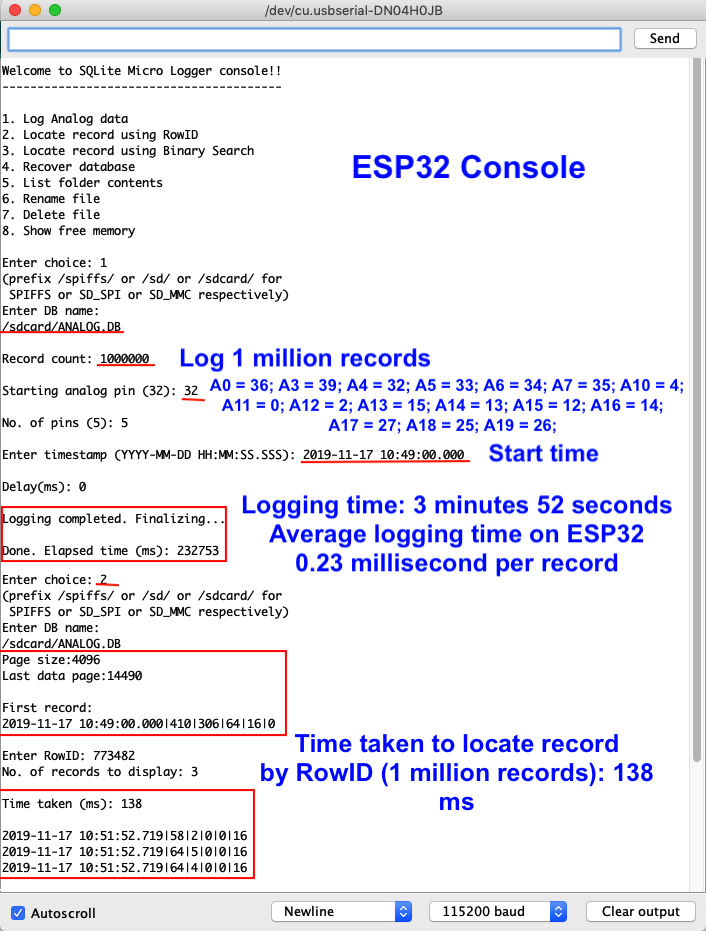
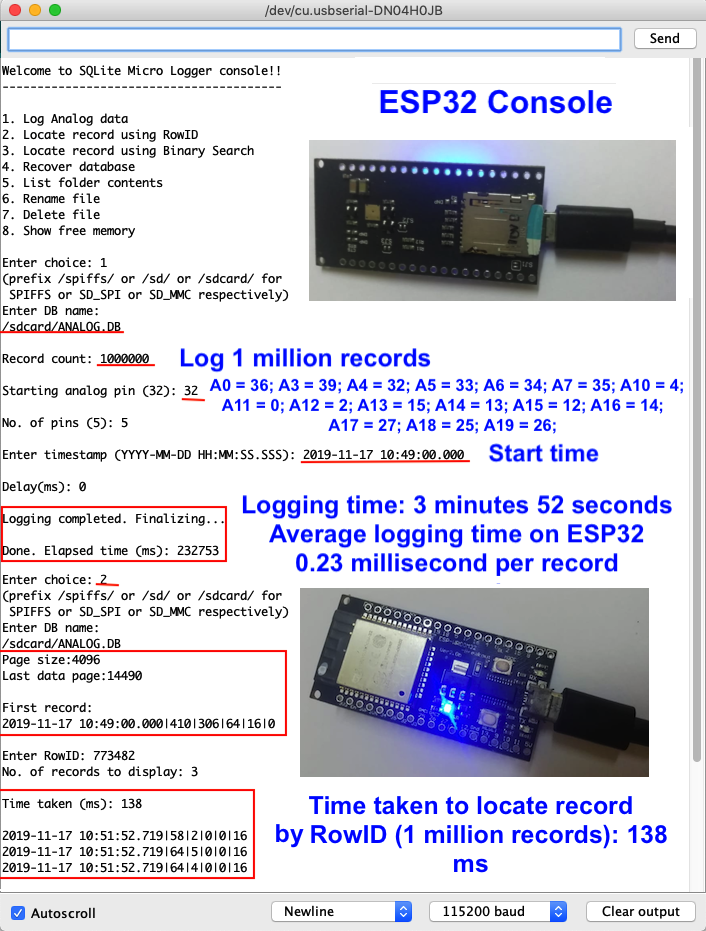
Add screenshots

Changed region(s): [[0.3739, 0.623, 0.966, 0.9345], [0.4363, 0.0934, 0.966, 0.3426]]

diff --git a/README.md b/README.md
@@ -37,6 +37,38 @@ For finding out how the logger works and a complete description of API visit [Sq
 
 If there is power failure during logging, the data can be recovered using `Recover database` option in the menu.
 
+# Examples
+
+# Arduino Uno
+
+This screenshot shows how analog data can be logged and retrieved using Arduino Uno and Sparkfun Micro SD Shield:
+
+![](uno_log_scr.png?raw=true)
+
+This screenshot shows how binary search can be performed on the timestamp field:
+
+![](uno_bin_srch_scr.png?raw=true)
+
+# ESP8266
+
+This screenshot shows how analog data can be logged and retrieved using ESP8266 (WeMos D1 Mini and Micro SD Shield):
+
+![](esp8266_analog_scr.png?raw=true)
+
+This screenshot shows how binary search can be performed on the timestamp field using ESP8266:
+
+![](esp8266_bin_srch_scr.png?raw=true)
+
+# ESP32
+
+This screenshot shows how analog data can be logged and retrieved using ESP32 breakout board having a Micro SD Slot on the SD_MMC port:
+
+![](esp32_analog_scr.png?raw=true)
+
+This screenshot shows how binary search can be performed on the timestamp field using ESP32:
+
+![](esp32_bin_srch_scr.png?raw=true)
+
 # Limitations
 
 Following are limitations of this library:
